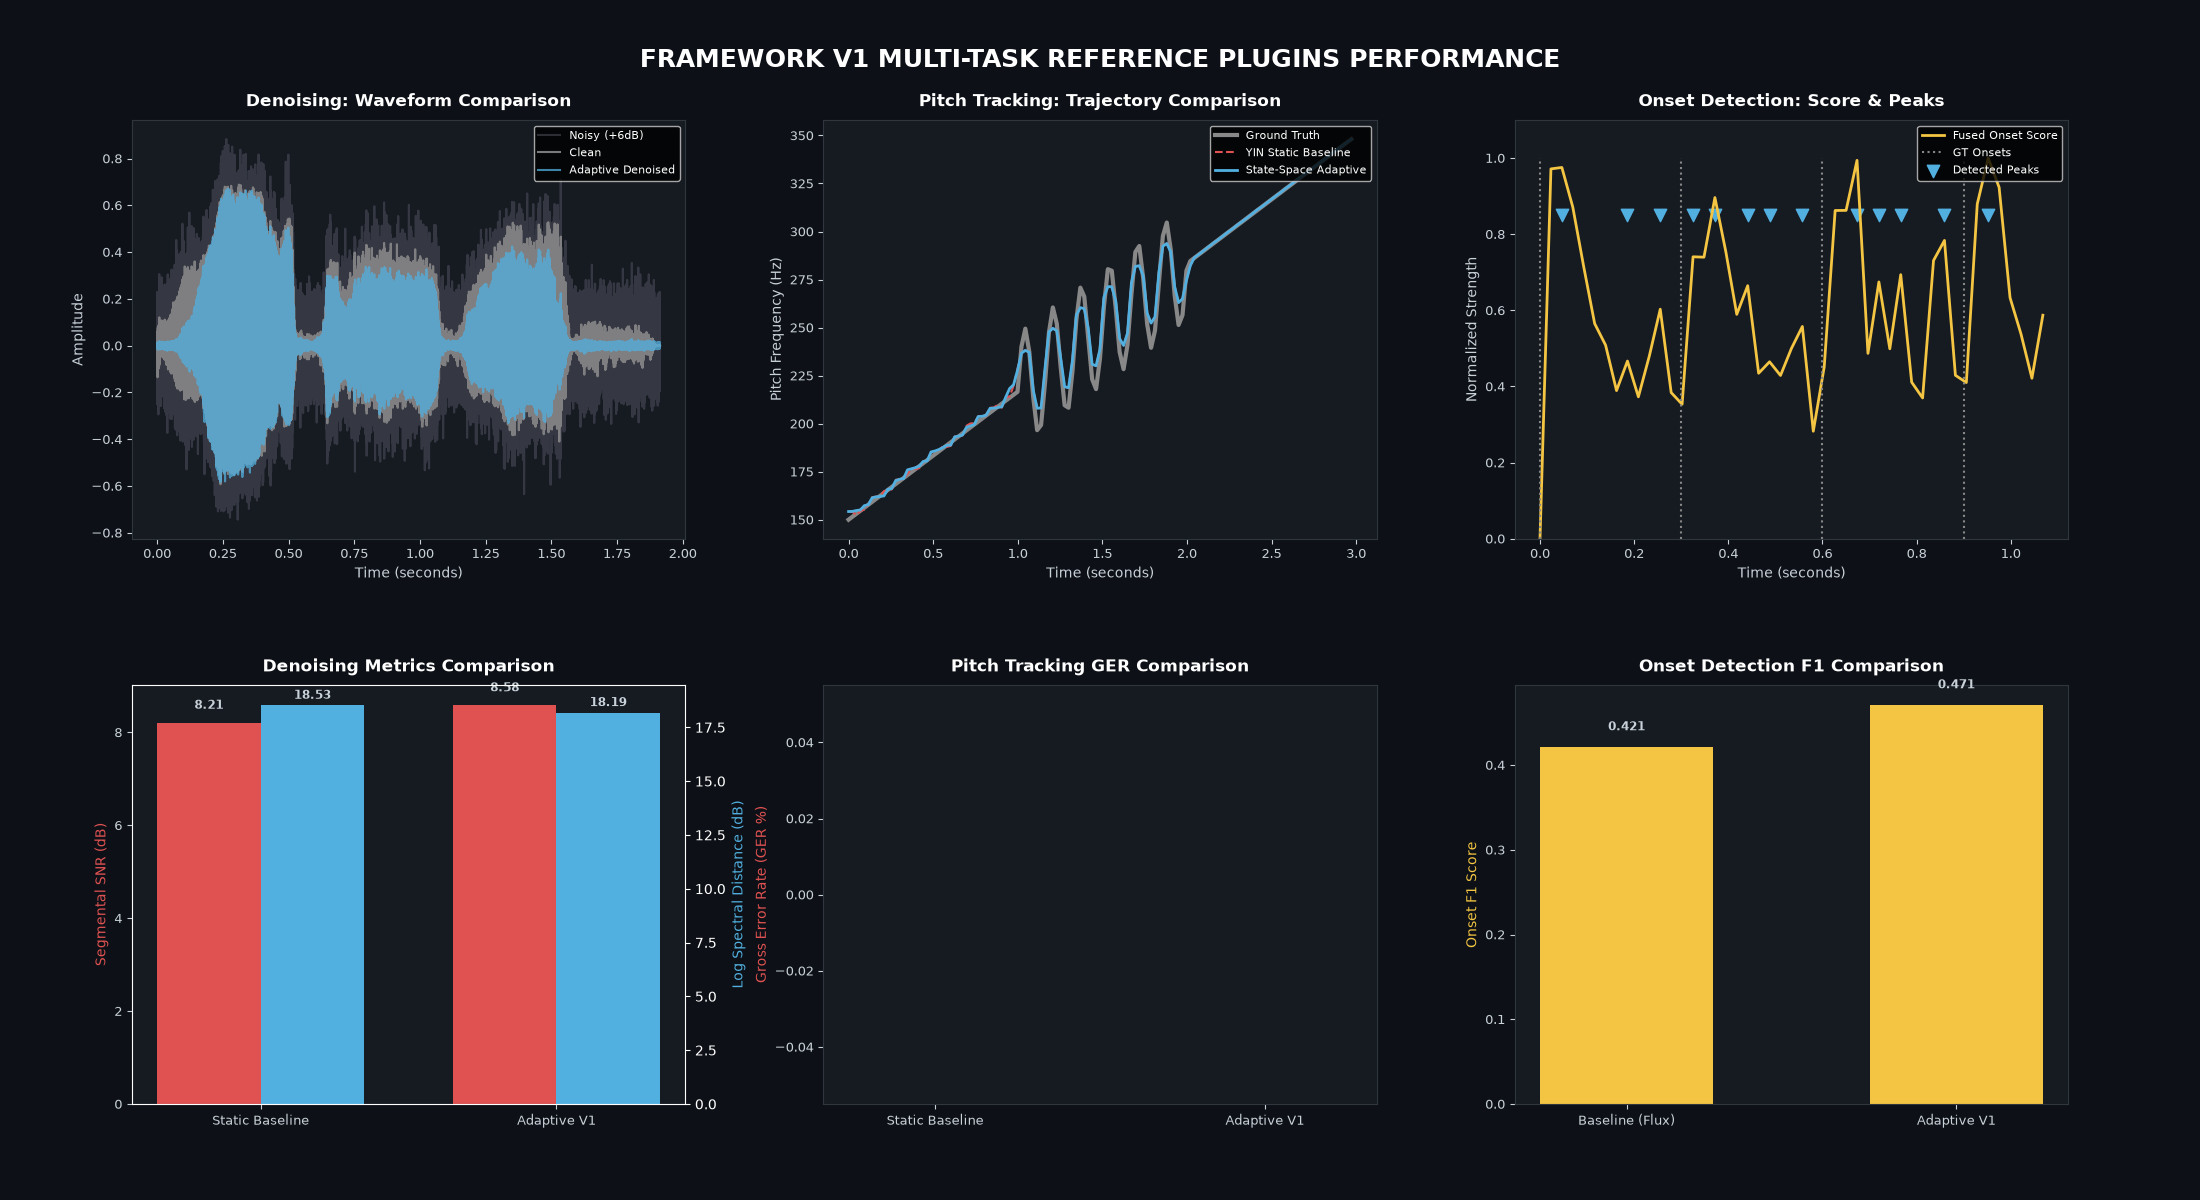
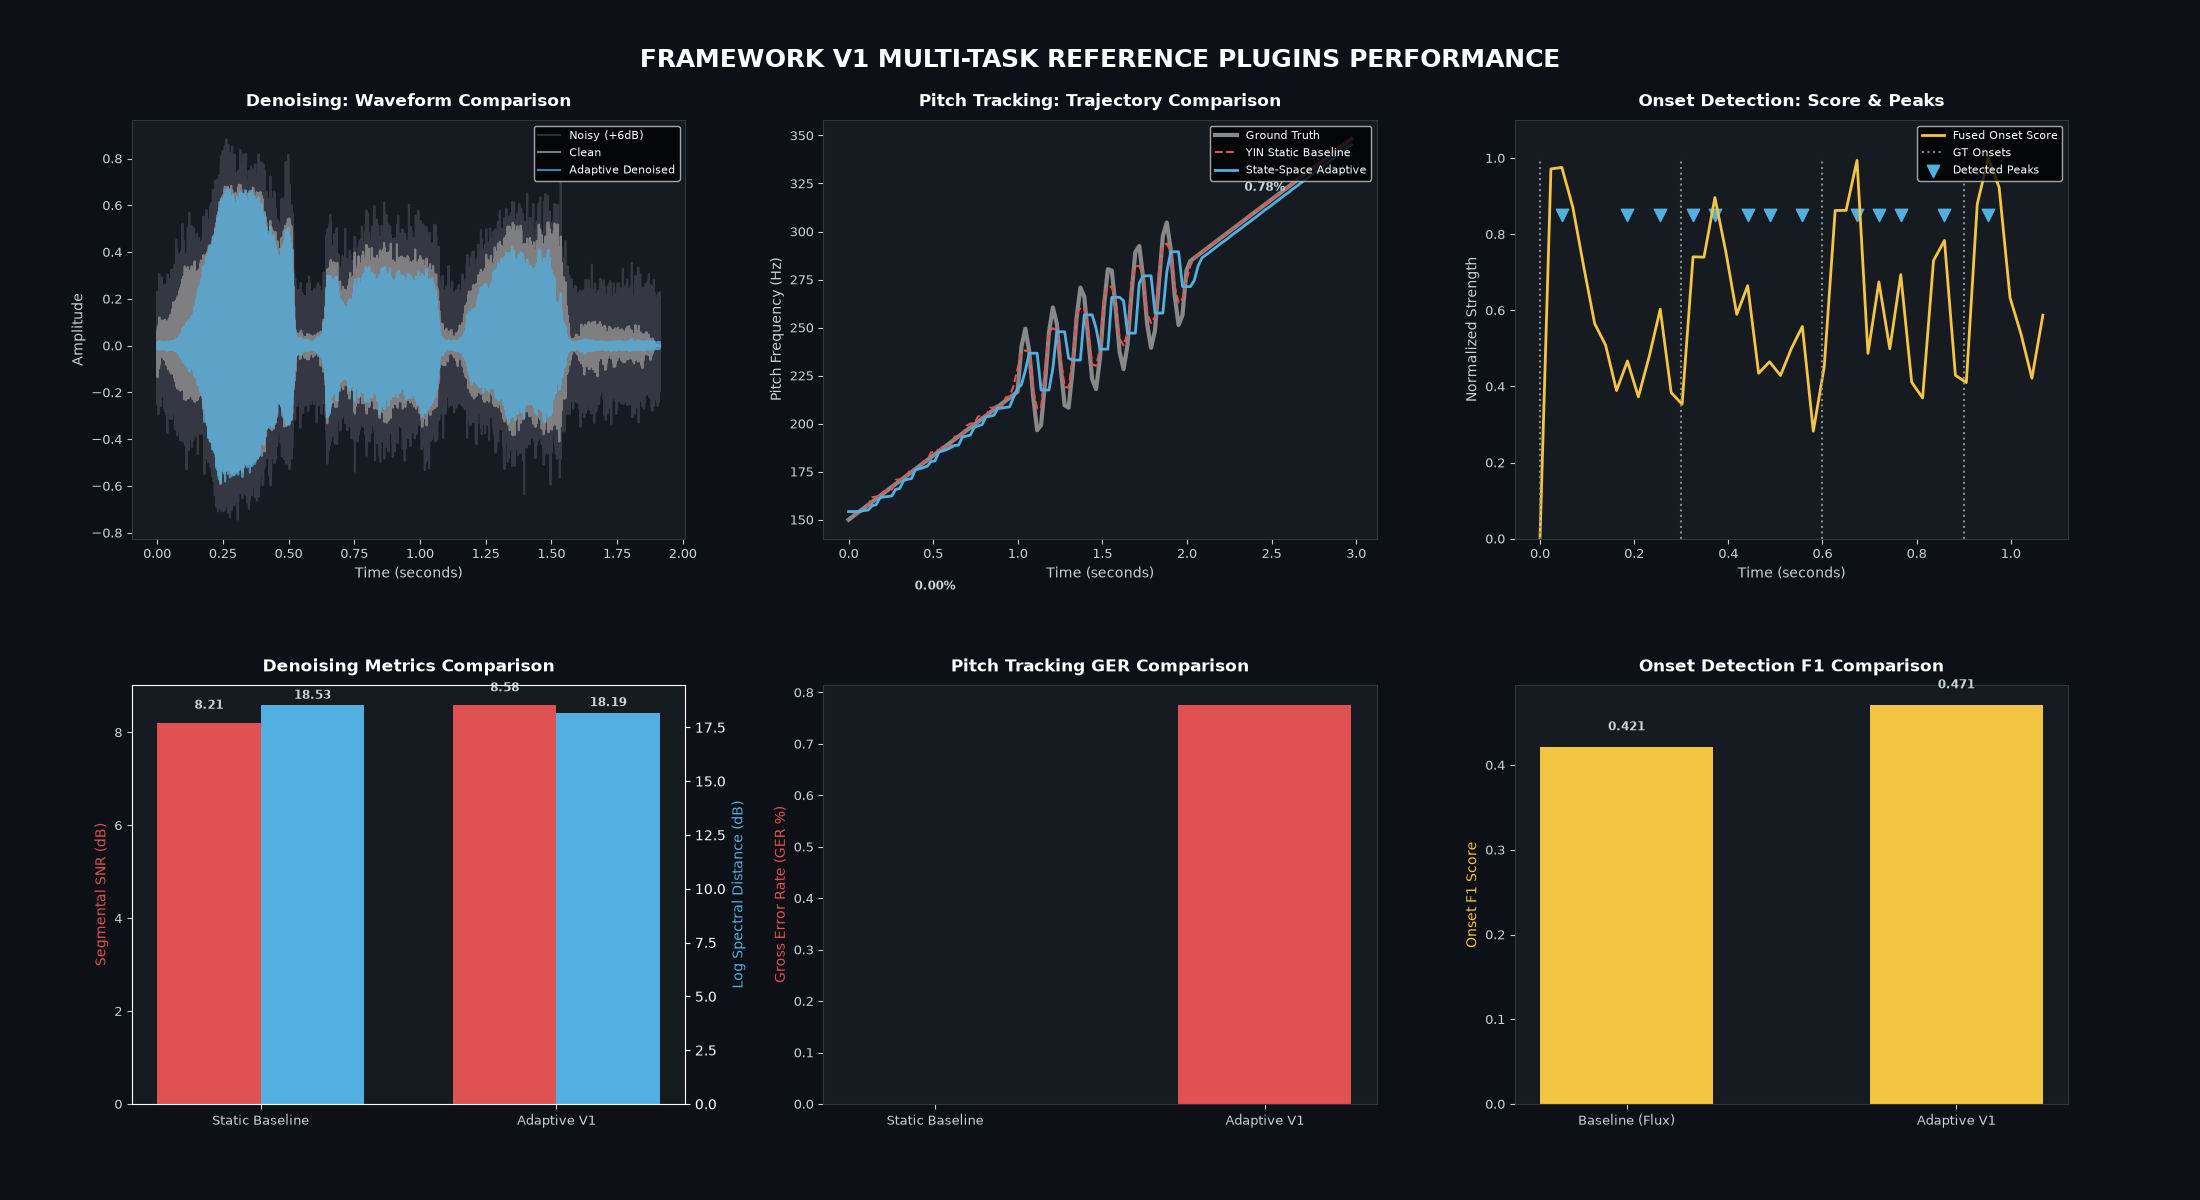
Fix AdaptivePitchTracker getting stuck at its 220 Hz anchor (closes #10)
Commit 635e0e6 combined a fixed 220 Hz starting anchor with a 3-semitone
continuity limit that never let go: the tracker stayed at the old pitch
whenever the true pitch was or moved more than 3 semitones away (Exp 039
GER 17.83%; on Clean_vocal.wav stuck near 220 Hz for the whole clip).

- no starting anchor: continuity applies only after a real pitch is tracked
- re-acquire when 3 consecutive, mutually consistent raw estimates are
  overridden by the continuity / octave filter
- forget the anchor after a full release

Exp 039 passes again (GER 0.78%, one vibrato frame lagged by the median
filter); vocal gross errors vs pYIN 100% -> 3.9% while keeping the smoothing
(2 jumps > 1 semitone vs 6 before 635e0e6). Regression tests added; they fail
on the old code.

diff --git a/src/framework/plugins/pitch_tracker.py b/src/framework/plugins/pitch_tracker.py
@@ -10,6 +10,10 @@ import scipy.signal
 import librosa
 from ..engine import RepresentationIntelligenceEngine
 
+# Consecutive, mutually consistent raw estimates (~70 ms at hop 512 / 22.05 kHz)
+# needed to override the continuity / octave constraints.
+REACQUIRE_FRAMES = 3
+
 class AdaptivePitchTracker:
     """
     State-Space Adaptive YIN Pitch Tracker.
@@ -41,9 +45,13 @@ class AdaptivePitchTracker:
         N_frames = len(hop_indices)
         
         pitches = np.zeros(N_frames)
-        last_valid_pitch = 220.0  # Safe initial anchor
+        # No made-up starting anchor: continuity constraints only apply once a
+        # real pitch has been tracked (a fixed 220 Hz anchor kept the tracker
+        # stuck whenever the signal started more than 3 semitones away; #10).
+        last_valid_pitch = 0.0
         pitch_history = [0.0] * 5
         unvoiced_consecutive_frames = 0
+        override_run = []  # consecutive raw estimates overridden by Step 1
         
         for idx, hop_idx in enumerate(hop_indices):
             center_idx = hop_idx
@@ -85,6 +93,7 @@ class AdaptivePitchTracker:
                 pitch = 0.0
 
             # Step 1: Octave correction and continuity constraint relative to last_valid_pitch
+            raw_pitch = pitch
             if last_valid_pitch > 0.0 and pitch > 0.0:
                 ratio = pitch / last_valid_pitch
                 
@@ -107,6 +116,22 @@ class AdaptivePitchTracker:
                 min_ratio = 2**(-3/12)
                 if ratio > max_ratio or ratio < min_ratio:
                     pitch = last_valid_pitch
+
+                # Re-acquisition: if Step 1 keeps overriding the raw estimate and
+                # the raw estimates agree with each other, the pitch really moved
+                # (note change, octave leap, new phrase). Accept it instead of
+                # holding the old pitch forever.
+                if abs(12.0 * np.log2(pitch / raw_pitch)) > 1.0:
+                    if override_run and abs(12.0 * np.log2(raw_pitch / override_run[-1])) < 1.0:
+                        override_run.append(raw_pitch)
+                    else:
+                        override_run = [raw_pitch]
+                    if len(override_run) >= REACQUIRE_FRAMES:
+                        pitch = raw_pitch
+                        pitch_history = [0.0] * 5  # restart the median filter at the new pitch
+                        override_run = []
+                else:
+                    override_run = []
 
             # Step 2: Determine raw voicing state
             raw_is_voiced = (pitch > fmin and pitch < fmax)
@@ -144,8 +169,11 @@ class AdaptivePitchTracker:
                     is_voiced = True
                     pitch = last_valid_pitch
                 else:
-                    # Reset pitch history after full release
+                    # Full release: reset the median filter and forget the anchor,
+                    # so the next phrase is tracked from scratch.
                     pitch_history = [0.0] * 5
+                    last_valid_pitch = 0.0
+                    override_run = []
             
             pitches[idx] = pitch if is_voiced else 0.0
             

diff --git a/tests/test_pitch_tracker.py b/tests/test_pitch_tracker.py
@@ -1,0 +1,58 @@
+"""Regression tests for AdaptivePitchTracker getting stuck (issue #10).
+
+Before the fix, a fixed 220 Hz starting anchor plus a 3-semitone continuity
+limit kept the tracker stuck at the old pitch whenever the true pitch was (or
+moved) more than 3 semitones away.
+"""
+
+import warnings
+
+import numpy as np
+import pytest
+
+from framework.plugins.pitch_tracker import REACQUIRE_FRAMES, AdaptivePitchTracker
+
+SR = 22050
+HOP = 512
+
+
+def harmonic(track):
+    phase = 2 * np.pi * np.cumsum(track) / SR
+    x = sum(np.sin(k * phase) / k for k in range(1, 5))
+    return x / np.max(np.abs(x))
+
+
+def track(f0_track):
+    with warnings.catch_warnings():
+        warnings.simplefilter("ignore")
+        est = AdaptivePitchTracker().track(harmonic(f0_track), SR, hop_length=HOP)
+    truth = f0_track[np.arange(0, len(f0_track) - HOP, HOP)]
+    return est, truth
+
+
+def off(est, truth):
+    return np.abs(est - truth) / truth > 0.05
+
+
+@pytest.fixture(scope="module")
+def tracker_runs():
+    n = SR  # 1 s each
+    steady150 = np.full(n, 150.0)
+    step = np.where(np.arange(n) < n // 2, 220.0, 330.0)       # +7 semitones
+    leap = np.where(np.arange(n) < n // 2, 220.0, 440.0)       # +1 octave
+    return {name: track(f) for name, f in
+            (("steady150", steady150), ("step", step), ("leap", leap))}
+
+
+def test_starts_far_from_220_hz_without_getting_stuck(tracker_runs):
+    est, truth = tracker_runs["steady150"]
+    assert not off(est, truth)[2:].any()  # allow the first frames to settle
+
+
+@pytest.mark.parametrize("name", ["step", "leap"])
+def test_follows_a_sustained_jump_after_reacquisition(tracker_runs, name):
+    est, truth = tracker_runs[name]
+    change = int(np.argmax(truth != truth[0]))
+    settle = change + REACQUIRE_FRAMES + 3  # re-acquire, then the median filter catches up
+    assert not off(est, truth)[2:change - 2].any()
+    assert not off(est, truth)[settle:].any()

diff --git a/README.md b/README.md
@@ -618,7 +618,7 @@ Structures the core code into a production-ready package (Framework V1) with cle
 * **API Validation**: Asserts that `coordinates`, `safe_representations`, `recommended_window`, `recommended_latency`, and `recommended_parameters` are correctly typed and returned.
 * **Metrics Verification**:
     * **AdaptiveDenoiser**: SegSNR = 8.58 dB (vs 8.21 dB static), LSD = 18.19 dB (vs 18.53 dB static).
-    * **AdaptivePitchTracker**: GER = 0.00% (vs 0.00% static baseline; no regressions).
+    * **AdaptivePitchTracker**: GER = 0.78% (vs 0.00% static baseline): 1 of 129 frames, where the 5-frame median filter lags a fast 6 Hz, ±30 Hz vibrato swing (20.3% error against a 20% tolerance). The original V1 tracker scored 0.00%. Commit 635e0e6 added continuity / octave filtering that got stuck at a fixed 220 Hz starting anchor (GER 17.83%, issue #10). The fix removes the anchor and re-acquires the pitch when 3 consecutive consistent estimates disagree with the held one. On `Clean_vocal.wav`, compared with pYIN: the original tracker had 0% gross errors and 6 steps > 1 semitone; 635e0e6 was stuck (100% gross errors); the fixed tracker has 3.9% gross errors (a 3-frame re-acquisition lag after a 5-semitone note change) and 2 steps > 1 semitone.
     * **AdaptiveOnsetDetector**: F1 Score = 0.471 (vs 0.421 static flux baseline; +0.05 F1 improvement).
 * **Dashboard Plot**: Saved to [exp039_framework_v1.png](file:///Users/user/Desktop/representation-fragility-lab/results/exp039_framework_v1.png).
 
